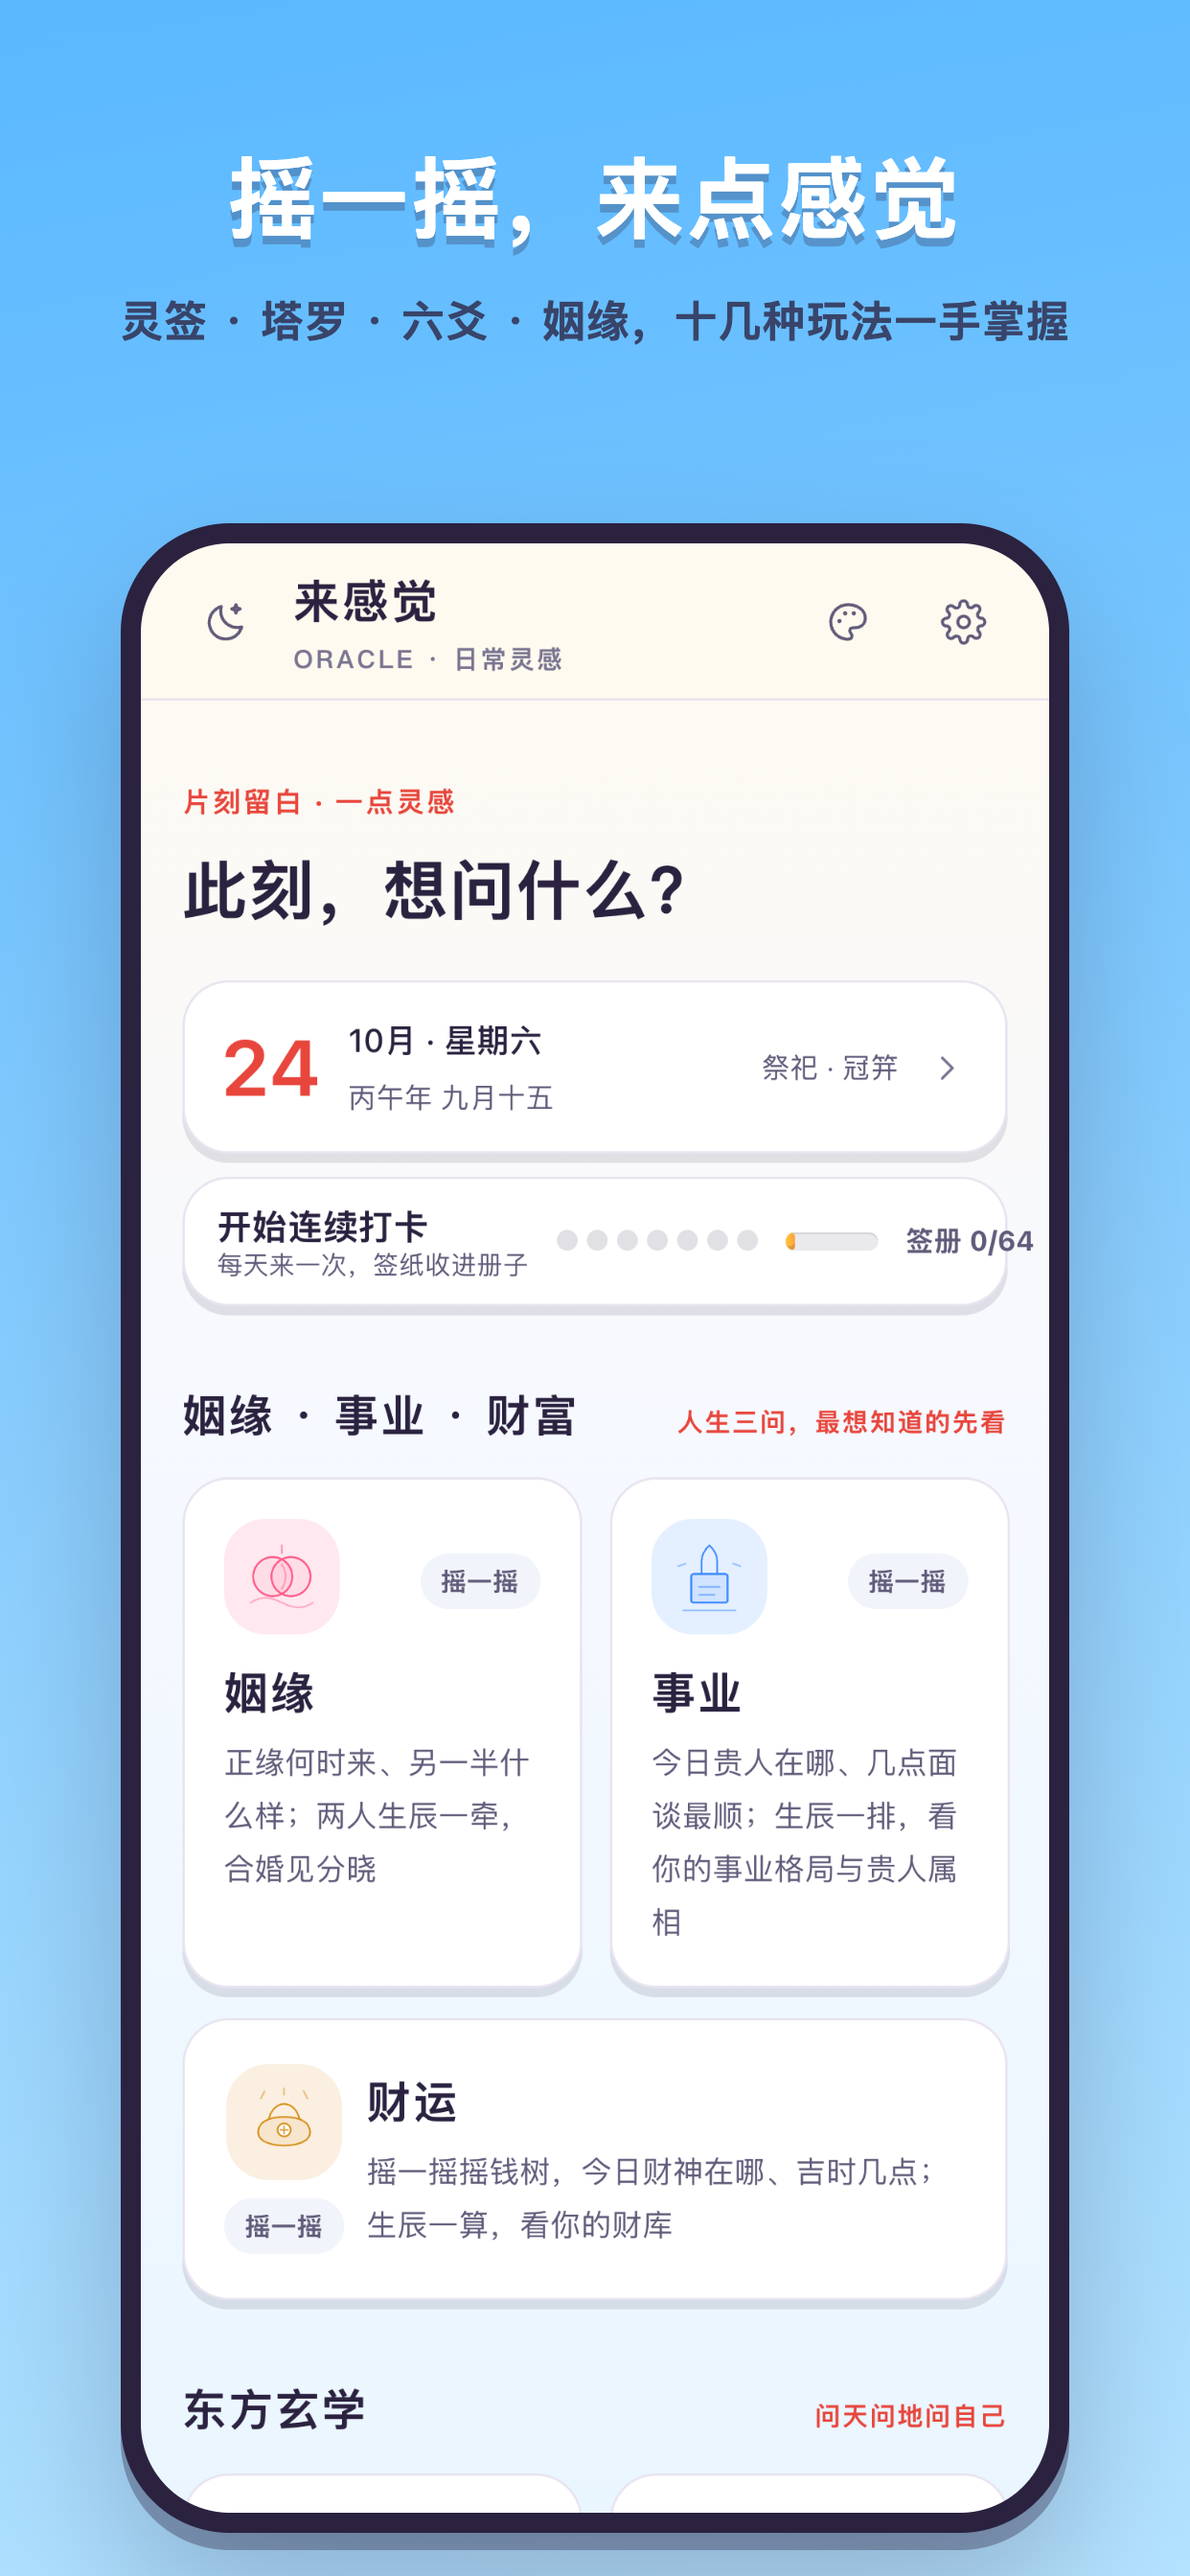
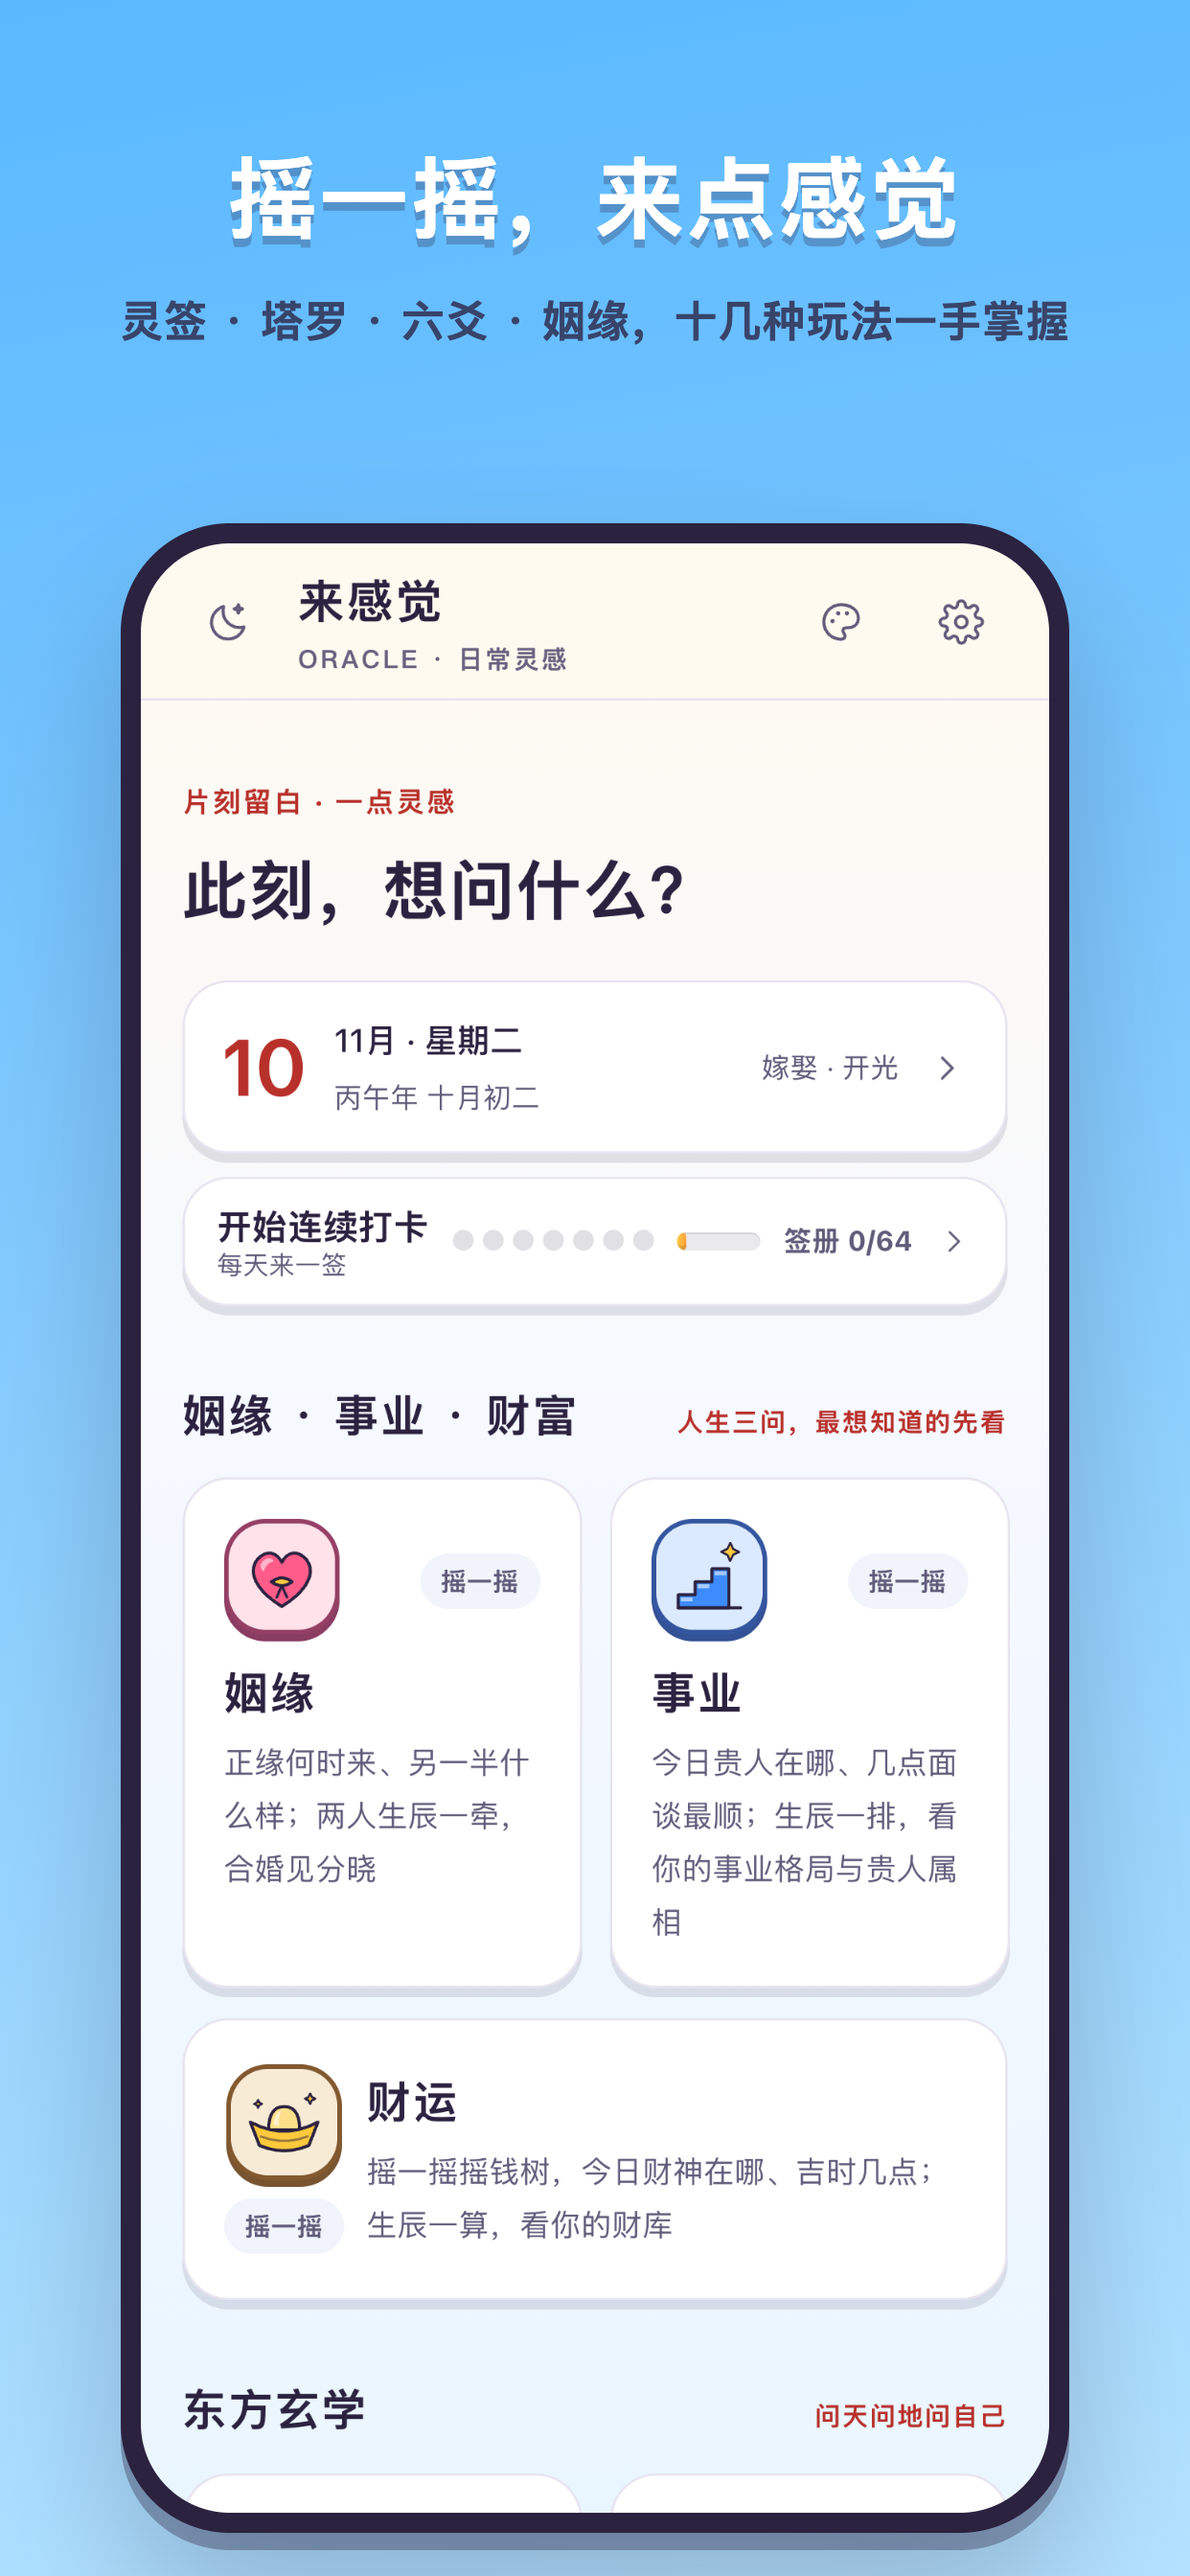
灵签签纸卡通化，商店截图重拍 4 张并支持 --only 分批重拍
- 灵签签纸改为奶油纸深描边硬厚边、朱红标签签号、圆体标题、朱红实心印章（toon-props.css 第 53 轮）
- store-shots.mjs：--only 指定重拍哪几张，单张超时跳过不白跑，隐藏轻提示
- 灵签网页预览支持 dev.lot 指定签号（App 原生环境忽略），商店图直接用上上签
- 重拍商店图第 1、2、3、6 张（两种尺寸），第 4、5 张待负载低时补拍
- 新增测试 7 项，TODO、视觉方向与运行记录更新

Claude-Session: https://claude.ai/code/session_01LrMMAWjRCv4NLYcmhSQgqU

diff --git a/src/styles/toon-props.css b/src/styles/toon-props.css
@@ -524,3 +524,58 @@
   font-size: 11px;
   border-width: 1.5px;
 }
+
+/* —— 灵签签纸卡通化（第 53 轮）——
+   重拍商店截图时发现：第 2 张商店图的主角就是这张签纸，它还是和纸版，米色纸、1px 淡棕细边、内框淡线、
+   12px 字距 .16em 的棕色签号、宋体标题和 1px 细框小印章，夹在描边厚边的舞台和红色厚边按钮之间显旧。
+   改为和御神签同一套：奶油纸 2.5px 深描边加 5px 硬厚边，顶部朱红标签白字签号，标题圆体 900，
+   印章改朱红实心白字描边厚边。签诗正文保留宋体（灵签与御神签一致），字距收窄。 */
+.m-qian .qn-paper {
+  --qn-ink: #2b2240;
+  --qn-pad: 22px;
+  background: #fffaf0;
+  color: var(--qn-ink);
+  border: 2.5px solid var(--qn-ink);
+  border-radius: 14px;
+  box-shadow: 0 5px 0 var(--qn-ink), 0 14px 24px rgba(43, 34, 64, 0.18);
+  padding: 0 var(--qn-pad) 20px;
+  overflow: hidden;
+}
+@media (max-width: 650px) { .m-qian .qn-paper { --qn-pad: 16px; } }
+.m-qian .qn-paper::after { display: none; }
+.m-qian .qn-paper-no {
+  display: block;
+  margin: 0 calc(-1 * var(--qn-pad)) 4px;
+  padding: 6px 0 7px;
+  background: #e8463c;
+  border-bottom: 2.5px solid var(--qn-ink);
+  color: #fff;
+  font: 800 13px/1.3 var(--font-round, var(--font-sans));
+  letter-spacing: .06em;
+  text-shadow: none;
+}
+.m-qian .qn-paper h2 {
+  margin: 12px 0 10px;
+  font: 900 23px/1.4 var(--font-round, var(--font-sans));
+  letter-spacing: .06em;
+  color: var(--qn-ink);
+  text-shadow: none;
+}
+.m-qian .qn-poem {
+  letter-spacing: .08em;
+  color: var(--qn-ink);
+  padding-top: 10px;
+  border-top: 2px dashed rgba(43, 34, 64, 0.28);
+}
+.m-qian .qn-seal {
+  margin-top: 12px;
+  padding: 4px 14px 5px;
+  font: 900 18px/1.2 var(--font-round, var(--font-sans));
+  letter-spacing: .08em;
+  color: #fff;
+  background: #e8463c;
+  border: 2.5px solid var(--qn-ink);
+  border-radius: 10px;
+  box-shadow: 0 3px 0 var(--qn-ink);
+  text-shadow: none;
+}

diff --git a/src/modules/qian/view.js b/src/modules/qian/view.js
@@ -74,6 +74,12 @@ export function mount(container, ctx) {
     guide.lastChild.textContent = text;
   }
 
+  // 商店截图脚本用：网页预览里 dev.lot 写了签号就抽这支签（App 里 Capacitor 原生环境下永远忽略）
+  function devLot() {
+    if (globalThis.Capacitor?.isNativePlatform?.()) return null;
+    const no = Number(storage.get('dev.lot', 0));
+    return no ? getLot(no) : null;
+  }
   async function shake(intensity = 20, { continuous = false, replay = true } = {}) {
     if (busy || reading || phase !== 'idle' || !ritual.alive) return;
     asked = question;
@@ -82,7 +88,7 @@ export function mount(container, ctx) {
     ritual.step(1); setGuide('shake', continuous ? SENSOR_HINT : SHAKING_HINT); st.setBadge(SHAKING_BADGE);
     if (!await bundle.draw({ power: intensity / 20, continuous, replay })) { if (ritual.alive) { st.setBadge(IDLE_BADGE); setGuide('shake', IDLE_HINT); lock(false); } return; }
     if (!await ritual.pause(320)) return;
-    lot = drawLot(ctx.rng.random); bundle.setLabel(lotLabel(lot)); picked.hidden = false;
+    lot = devLot() || drawLot(ctx.rng.random); bundle.setLabel(lotLabel(lot)); picked.hidden = false;
     sound.play('tick'); haptic.light();
     phase = 'drawn'; ritual.step(2); setGuide('tap', DRAWN_HINT); st.setBadge(lotLabel(lot));
     primary.setLabel(TAKE_LABEL); lock(false);

diff --git a/docs/claude-plan/TODO.md b/docs/claude-plan/TODO.md
@@ -29,7 +29,9 @@ P0 上架必需 · P1 影响付费转化 · P2 体验打磨。完成后打勾并
 - [x] **只上 iPhone，免得审核要 iPad 截图** ✅ 2026-11-10（第 52 轮整理上架清单时发现：App、小组件、UI 测试三个目标都是 `TARGETED_DEVICE_FAMILY = "1,2"`，也就是同时上 iPad。这样 App Store Connect 必须上传 13 寸 iPad 截图，审核员也会在 iPad 上按 iPad 布局审（指南 2.4.1），而 App 只为 iPhone 竖屏设计、商店图也只有 iPhone。改为 `1`，iPad 用户仍能以兼容模式安装。同时 Info.plist 的设备能力从老模板的 `armv7` 改为 `arm64`（部署目标 iOS 15，设备全是 arm64），删掉用不到的 iPad 方向。`tests/ios-launch.test.mjs` 2 项，模拟器编译见 run-log）
 - [x] **支持网址页面** ✅ 2026-11-10（第 52 轮，App Store Connect 的「支持网址」是必填项，之前只有隐私政策和使用条款。新增 `src/support.html`，构建时复制到 `support.html`：联系方式（GitHub 项目页，与隐私政策一致）、换手机后恢复购买、取消订阅、退款走 reportaproblem.apple.com、体感没反应、小组件怎么加、仅供娱乐，中英两段。顺带查到审核备注写的按钮「开启手机体感」在 App 里实际叫「开启体感」，审核员照着找会找不到，已改。`tests/legal.test.mjs` 新增 1 项，会检查按钮文字和 App 一致。`scripts/legal-shots.mjs` 截三页浅深两套两种尺寸，无横向溢出）
 - [x] **上架清单** ✅ 2026-11-10（第 52 轮，新增 `docs/claude-plan/launch-checklist.md`：按提交顺序列出 17 步，标明哪些已在代码里、哪些要 Peyton 在 Apple 后台或真机上做，附常见被拒原因自查。monetization.md 第 6 节过时的材料表换成指向清单，store-listing.md 第 5 节年龄分级从 12+ 更正为 13+ 并补上三个网址）
-- [ ] **按现在的界面重拍商店截图**（P0，第 52 轮发现）：`docs/claude-plan/store/` 里的 12 张是第 21 轮拍的，之后第 36 到 51 轮把付费卡、结果条、抽屉、按钮、星级、历史记录都卡通化了，商店图和装上后看到的界面对不上。完成标准：`node scripts/store-shots.mjs` 重跑（Mac 负载高时可加 `LGJ_STAGE_TIMEOUT=240000`），12 张逐张过目，塔罗仍是积极正位牌，尺寸核对 1290×2796 与 1242×2688。第 52 轮试跑：Mac 负载 30 到 45，首页 62 秒，灵签 17 分钟仍没抽到上签就停掉了，旧图没被覆盖。负载低于 15 时再跑，或给脚本加「只拍某几张」的参数分批拍。
+- [ ] **按现在的界面重拍商店截图**（P0，第 52 轮发现）：`docs/claude-plan/store/` 里的 12 张是第 21 轮拍的，之后第 36 到 51 轮把付费卡、结果条、抽屉、按钮、星级、历史记录都卡通化了，商店图和装上后看到的界面对不上。完成标准：`node scripts/store-shots.mjs` 重跑（Mac 负载高时可加 `LGJ_STAGE_TIMEOUT=240000`），12 张逐张过目，塔罗仍是积极正位牌，尺寸核对 1290×2796 与 1242×2688。第 52 轮试跑：Mac 负载 30 到 45，首页 62 秒，灵签 17 分钟仍没抽到上签就停掉了，旧图没被覆盖。负载低于 15 时再跑，或给脚本加「只拍某几张」的参数分批拍。第 53 轮（负载 23 到 28）：第 1 首页、2 灵签（上上签）、3 塔罗（圣杯三正位）、6 水晶球四张已按现在的界面重拍并逐张过目，两种尺寸 1290×2796 与 1242×2688 核对无误。第 4 摇钱树、第 5 姻缘线两张的 3D 舞台在高负载下编译超过 4 分钟仍未完成（页面主线程被软件 WebGL 编译占住），旧图保留。剩下这两张在负载低时用 `node scripts/store-shots.mjs --only 4,5` 补拍。
+- [x] **商店截图脚本可以分批重拍、灵签不再碰运气** ✅ 2026-11-10（第 53 轮，P0 辅助：`store-shots.mjs` 新增 `--only 1,3` 只重拍指定几张，其余旧图保留。某一张超时只记下来跳过，不再让前面拍好的几张白费，并打印页面状态。灵签场景通过网页预览专用的 `dev.lot`（App 原生环境永远忽略）直接抽第一签上上签，原来平均要重抽 3 次、高负载下 17 分钟仍没抽到。商店图里隐藏轻提示，避免「新签入册」压在按钮上。`tests/store-shots-only.test.mjs` 4 项）
+- [x] **灵签签纸卡通化** ✅ 2026-11-10（第 53 轮重拍商店图发现，P1：第 2 张商店图的主角就是这张签纸，还是米色和纸、1px 淡棕细边、内框淡线、棕色细字签号、1px 细框小印章。改成和御神签同一套，奶油纸 2.5px 深描边加 5px 硬厚边、顶部朱红标签白字签号、标题圆体 900、签诗上方 2px 虚线、印章朱红实心白字描边厚边。`toon-props.css` 第 53 轮一节，`tests/toon-qian-paper.test.mjs` 3 项。宣纸 393×852 与 430×932、玄墨截图与新商店图过目）
 
 ## P1
 

diff --git a/docs/claude-plan/visual-direction.md b/docs/claude-plan/visual-direction.md
@@ -65,6 +65,7 @@
 - 玩法页次按钮（第 44 轮，`src/styles/toon-buttons.css`）：操作条、结果条操作行、塔罗操作行、卢恩「符文一览」里的 ghost 与 soft 按钮统一为 --surface 白底、2px --line-strong 描边、圆角 14px、0 4px 0 --edge-color 厚边、圆体 800，按下下沉 3px，不可用时去掉厚边改虚线描边。抽屉和设置里的小按钮各有自己的样式，不在这里管。
 - 页面背景（第 44 轮）：宣纸皮肤 body 渐变 `no-repeat`，底色 #eaf6ff 接渐变末端。iOS WebKit 不支持 `background-attachment: fixed`，不这样写时长页面在一屏高处有一道硬缝。
 - 御神签签纸（第 44 轮，`toon-props.css`）：奶油纸 #fffaf0、2.5px #2b2240 描边、圆角 14px、0 5px 0 #2b2240 硬厚边加一层柔和投影。顶部 8px 朱红 #e8463c 条连着「第 N 番」白字圆体 800 13px 标签，底部 2.5px 描边。等级字圆体 900，八向 2px 描边加 4px 下沉：金 #ffc93c / #6a3a00，红 #e8463c / #5a1a10，墨 #fff4d6 / #2b2240，靛 #8fa9ff / #1c2550。签诗正文保留宋体，字距 .08em。分隔线 2px 虚线，底部一条 6px 金色描边圆条。结绳架立柱 8px 朱红、横杆 6px 金色，都是 2px #2b2240 描边，不透明。出签后签筒完全淡出。
+- 灵签签纸（第 53 轮，`toon-props.css`）：和御神签同一套。奶油纸 #fffaf0、2.5px #2b2240 描边、圆角 14px、0 5px 0 #2b2240 硬厚边加柔和投影，去掉内框淡线。顶部朱红 #e8463c 标签白字签号圆体 800 13px，横向铺满（窄屏内边距 16px 同步）。标题圆体 900 23px，签诗上方 2px 虚线，签诗保留宋体字距 .08em。印章朱红实心白字圆体 900 18px、2.5px 描边、圆角 10px、0 3px 0 厚边，仍是 -8deg 斜盖。
 - 六爻舞台（第 44 轮，`toon-props.css`）：铜钱盘青绿绒布 #3aa898、2.5px #2b2240 描边、圆角 18px、内圈 2px 白色 60% 虚线。卦象台 2px --line-strong 描边加 4px 厚边，卦名圆体 900 16px 字距 .04em，爻位圆体 800 12px，「自下而上」圆体 800 11px，爻条 10px 高、圆角 4px、2px 下沉影。
 
 ## 4. 色板（CSS 变量建议）
